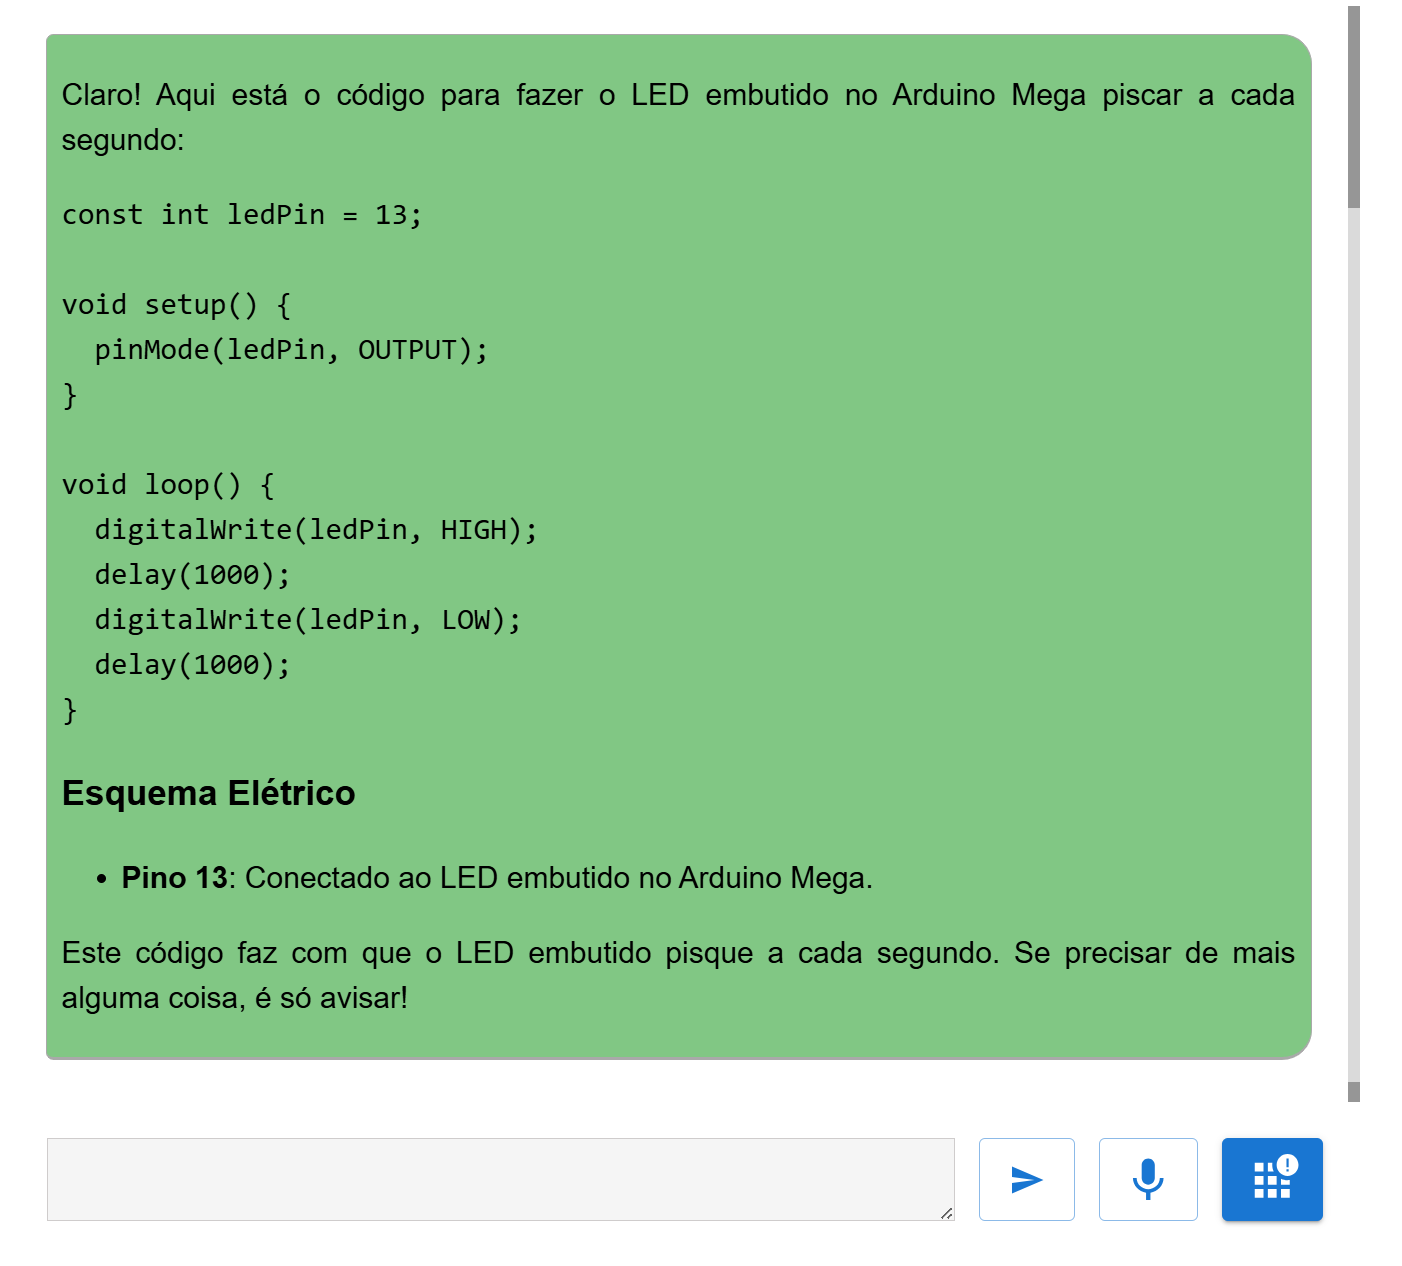
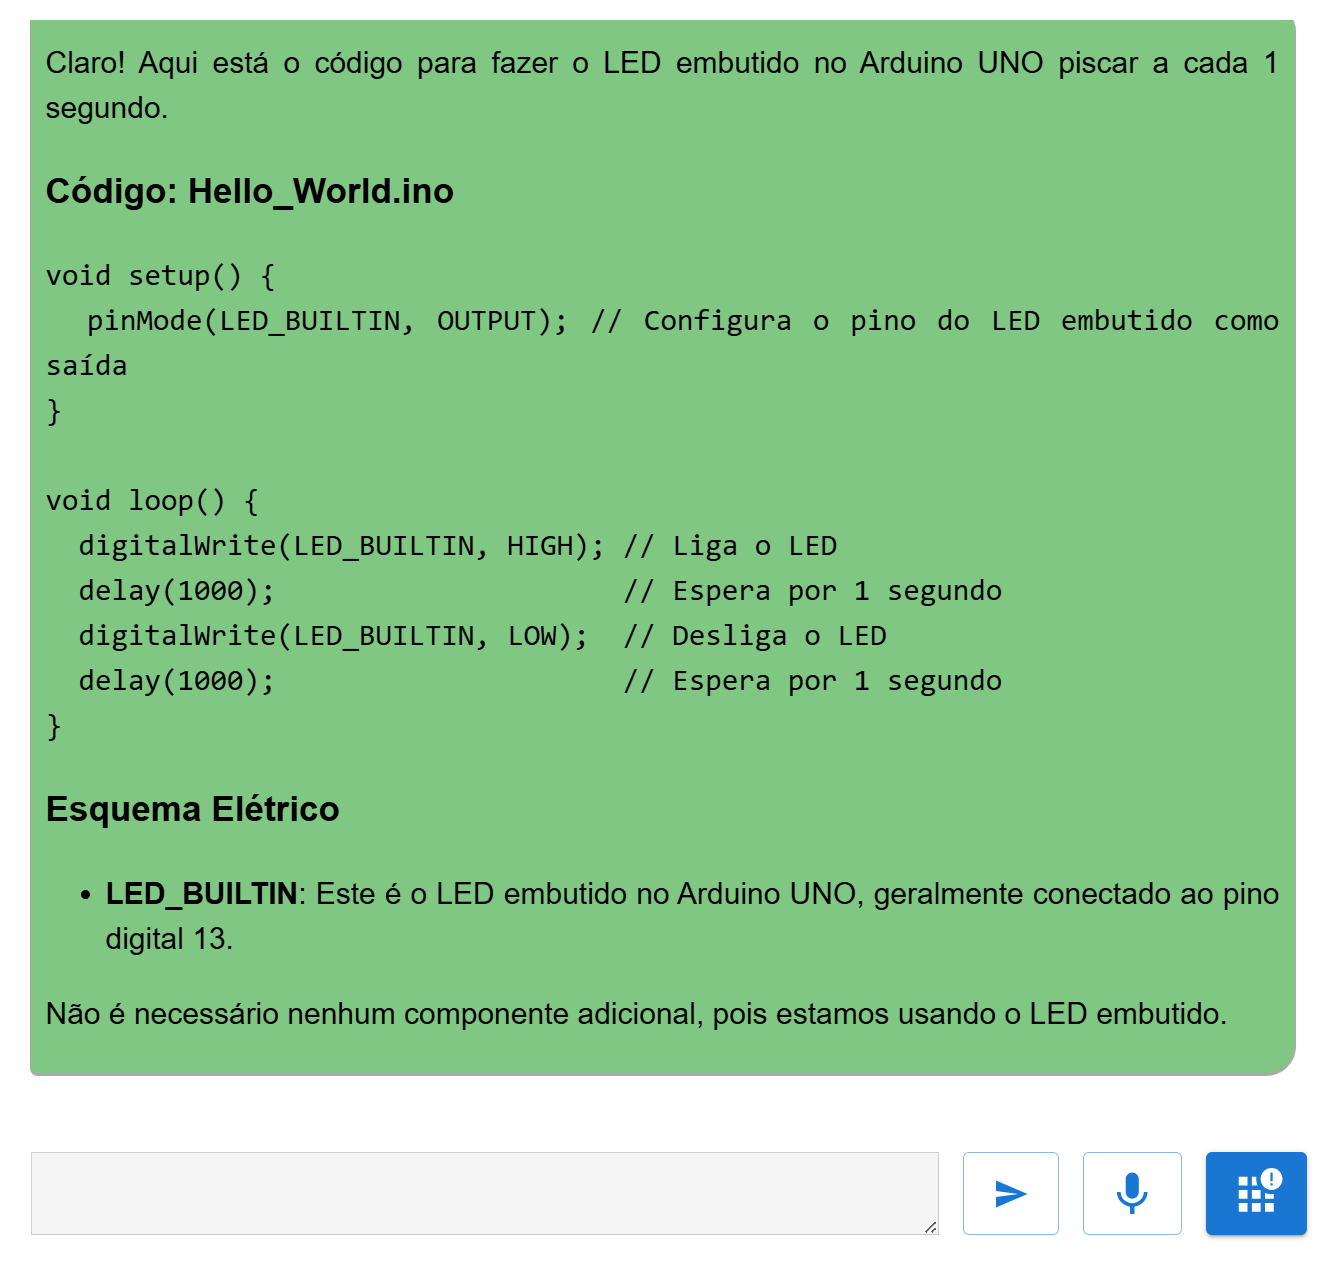
Updates

diff --git a/index.html b/index.html
@@ -4,7 +4,7 @@
     <meta charset="UTF-8" />
     <meta name="viewport" content="width=device-width, initial-scale=1.0" />
     <title>Repositório FranCosMonX</title>
-    <script type="module" crossorigin src="/assets/index-DslCLiD9.js"></script>
+    <script type="module" crossorigin src="/assets/index-BD1DB02x.js"></script>
     <link rel="stylesheet" crossorigin href="/assets/index-D7MwaHwk.css">
   </head>
   <body>